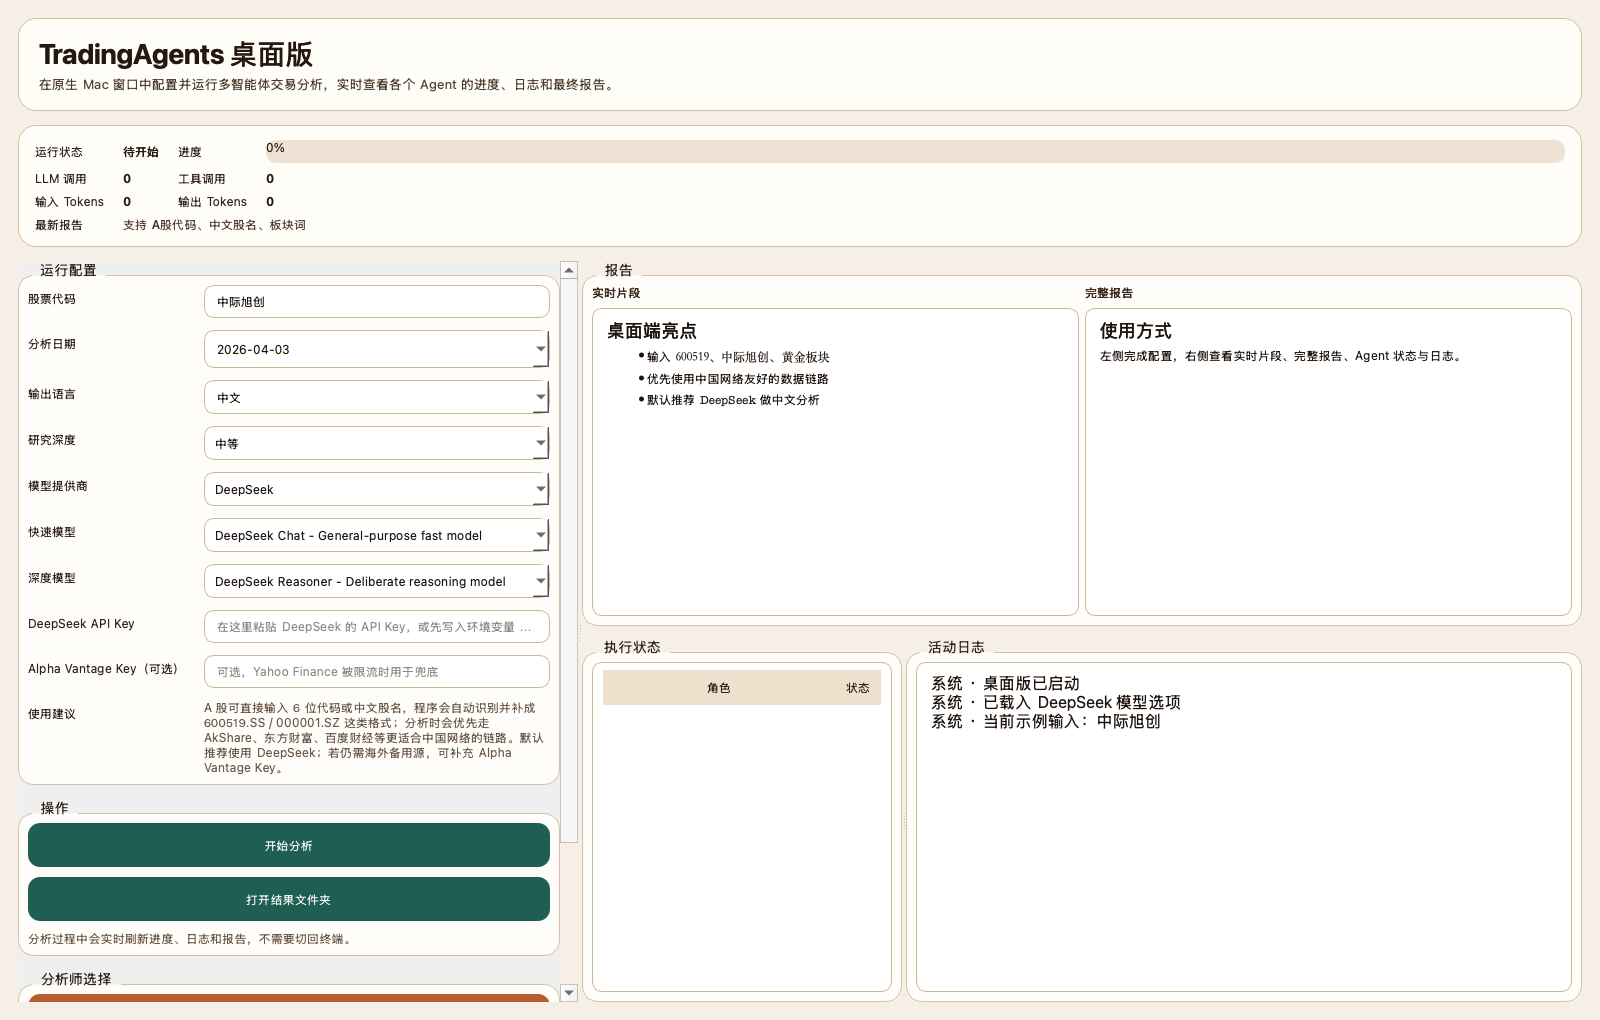
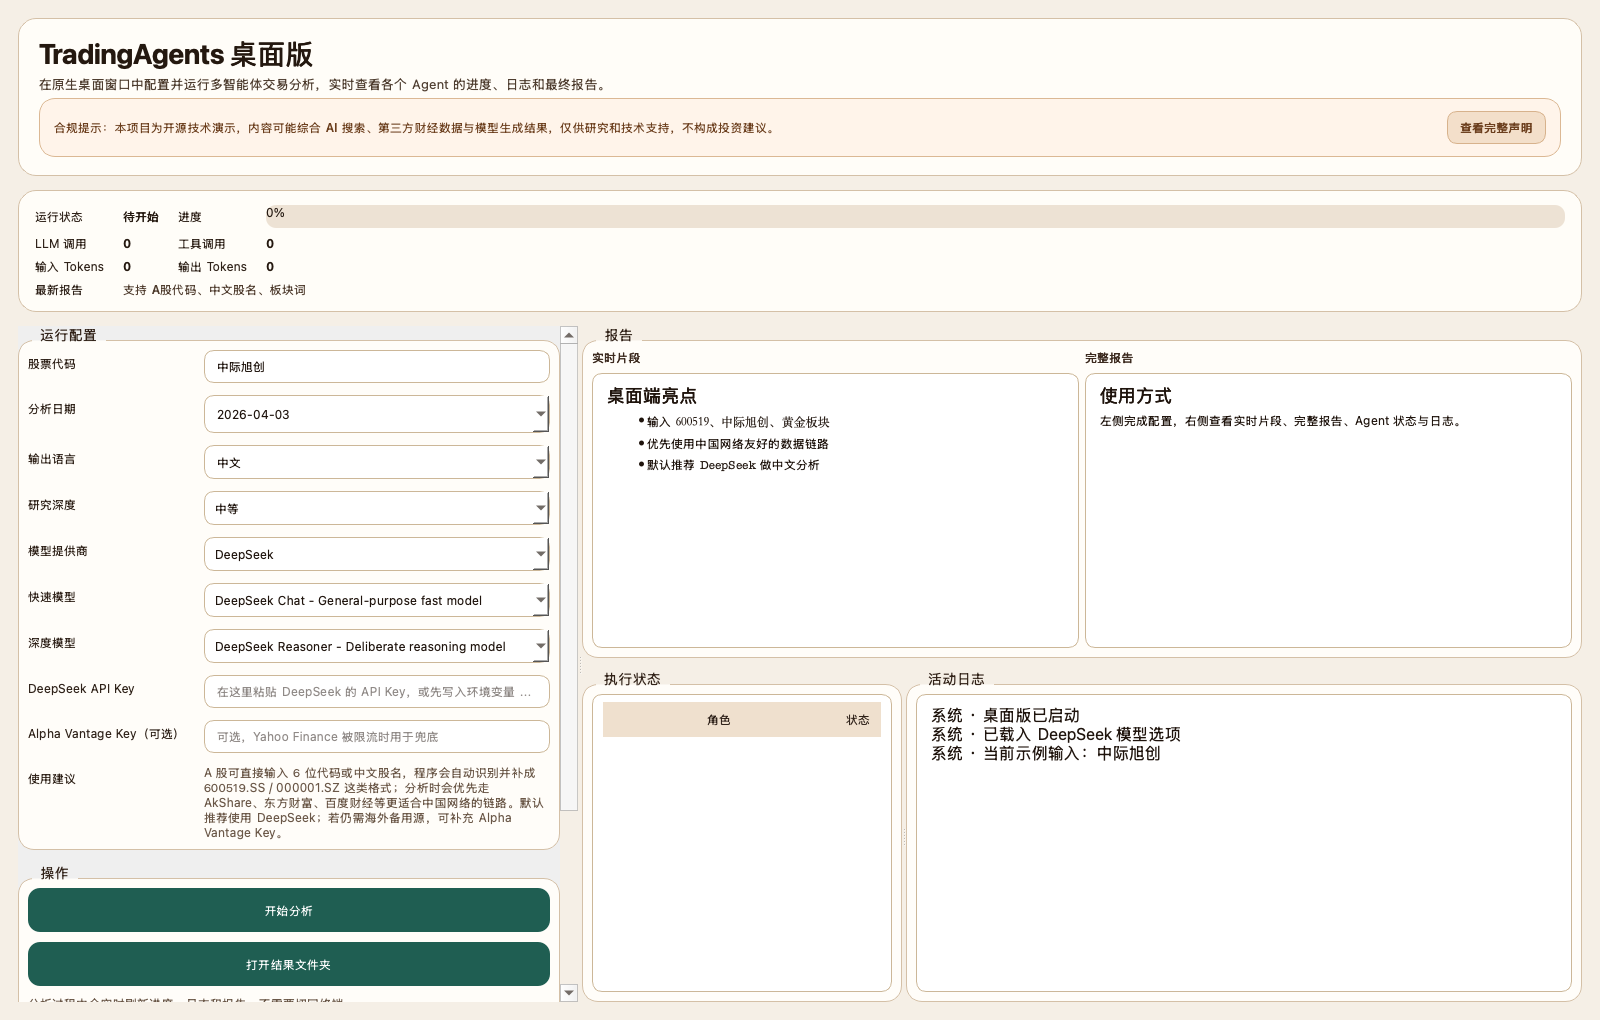
Add compliance notice and disclaimer docs

Changed region(s): [[0.0, 0.0912, 1.0, 1.0], [0.0312, 0.0608, 0.375, 0.0912]]

diff --git a/tradingagents/desktop/app.py b/tradingagents/desktop/app.py
@@ -7,7 +7,7 @@ import traceback
 from dotenv import load_dotenv
 
 try:
-    from PySide6.QtCore import QDate, QObject, QSettings, Qt, QThread, QUrl, Signal
+    from PySide6.QtCore import QDate, QObject, QSettings, Qt, QThread, QTimer, QUrl, Signal
     from PySide6.QtGui import QColor, QDesktopServices, QFontDatabase
     from PySide6.QtWidgets import (
         QApplication,
@@ -141,6 +141,30 @@ QScrollArea {
     border: none;
     background: transparent;
 }
+QFrame#NoticeCard {
+    background: #fff4ea;
+    border: 1px solid #dbb894;
+    border-radius: 16px;
+}
+"""
+
+
+COMPLIANCE_NOTICE_VERSION = "2026-04-03.zh-cn.v1"
+COMPLIANCE_NOTICE_SUMMARY = (
+    "本项目是开源的技术研究/演示工具，仅提供技术支持与辅助分析能力，"
+    "不提供任何形式的投资建议、证券推荐、收益承诺或委托理财服务。"
+)
+COMPLIANCE_NOTICE_HTML = """
+<p><b>请在使用前了解以下说明：</b></p>
+<ul>
+  <li>本项目是开源技术项目，面向研究、学习、工程验证和辅助分析场景，不是持牌证券、投资顾问或资产管理服务。</li>
+  <li>分析内容可能综合第三方财经接口、公开网页、联网搜索结果、AI 搜索和大模型生成输出，存在延迟、缺失、误差、幻觉或过时风险。</li>
+  <li>程序输出仅供技术参考，不构成任何投资建议、证券买卖建议、收益承诺、招揽或保证。</li>
+  <li>使用者应自行核验关键数据，并独立承担交易、投资、税务、法律和运营相关风险与责任。</li>
+  <li>第三方数据源、搜索服务、模型服务和网络链路的可用性、准确性与合规性，由对应提供方负责，本项目不作保证。</li>
+  <li>桌面端会在本机保存你填写的 API Key 配置，请自行做好设备、账号与密钥安全管理。</li>
+  <li>项目按当前仓库许可协议和“按现状”方式提供；如需商业化、面向客户分发或用于投顾场景，请先咨询专业律师或合规顾问。</li>
+</ul>
 """
 
 
@@ -171,10 +195,11 @@ class AnalysisWorker(QObject):
 
 
 class MainWindow(QMainWindow):
-    def __init__(self) -> None:
+    def __init__(self, show_compliance_notice: bool = True) -> None:
         super().__init__()
         load_dotenv()
         self.settings = QSettings("TradingAgents", "Desktop")
+        self.show_compliance_notice = show_compliance_notice
         self._provider_keys: dict[str, str] = {}
         self._active_provider: str | None = None
         self.worker_thread: QThread | None = None
@@ -184,6 +209,8 @@ class MainWindow(QMainWindow):
         self._build_ui()
         self._load_saved_state()
         self._refresh_agent_table({})
+        if self.show_compliance_notice:
+            QTimer.singleShot(0, self._show_compliance_notice_if_needed)
 
     def _build_ui(self) -> None:
         self.setWindowTitle("TradingAgents 桌面版")
@@ -207,12 +234,34 @@ class MainWindow(QMainWindow):
         title = QLabel("TradingAgents 桌面版")
         title.setStyleSheet("font-size: 28px; font-weight: 700; color: #24180f;")
         subtitle = QLabel(
-            "在原生 Mac 窗口中配置并运行多智能体交易分析，实时查看各个 Agent 的进度、日志和最终报告。"
+            "在原生桌面窗口中配置并运行多智能体交易分析，实时查看各个 Agent 的进度、日志和最终报告。"
         )
         subtitle.setWordWrap(True)
         subtitle.setStyleSheet("font-size: 13px; color: #4e3d2f;")
+        notice_card = QFrame()
+        notice_card.setObjectName("NoticeCard")
+        notice_layout = QHBoxLayout(notice_card)
+        notice_layout.setContentsMargins(14, 12, 14, 12)
+        notice_layout.setSpacing(12)
+        notice_label = QLabel(
+            "合规提示：本项目为开源技术演示，内容可能综合 AI 搜索、第三方财经数据与模型生成结果，仅供研究和技术支持，不构成投资建议。"
+        )
+        notice_label.setWordWrap(True)
+        notice_label.setStyleSheet("color: #6c3f1e; font-size: 12px; font-weight: 600;")
+        self.notice_button = QPushButton("查看完整声明")
+        self.notice_button.setCursor(Qt.PointingHandCursor)
+        self.notice_button.setMaximumWidth(132)
+        self.notice_button.setStyleSheet(
+            "QPushButton { background: #f3dfca; color: #6c3f1e; border: 1px solid #d7b28c; "
+            "border-radius: 10px; padding: 8px 12px; font-weight: 700; }"
+            "QPushButton:hover { background: #ecd4bb; }"
+        )
+        self.notice_button.clicked.connect(self._show_compliance_notice)
+        notice_layout.addWidget(notice_label, 1)
+        notice_layout.addWidget(self.notice_button, 0, Qt.AlignTop)
         header_layout.addWidget(title)
         header_layout.addWidget(subtitle)
+        header_layout.addWidget(notice_card)
         root_layout.addWidget(header)
 
         stats_row = QFrame()
@@ -892,6 +941,44 @@ class MainWindow(QMainWindow):
         if self.latest_results_dir:
             QDesktopServices.openUrl(QUrl.fromLocalFile(self.latest_results_dir))
 
+    def _show_compliance_notice(self) -> None:
+        self._show_compliance_dialog(require_ack=False)
+
+    def _show_compliance_notice_if_needed(self) -> None:
+        acknowledged_version = str(
+            self.settings.value("compliance_notice_version", "") or ""
+        )
+        if acknowledged_version == COMPLIANCE_NOTICE_VERSION:
+            return
+        accepted = self._show_compliance_dialog(require_ack=True)
+        if accepted:
+            self.settings.setValue(
+                "compliance_notice_version",
+                COMPLIANCE_NOTICE_VERSION,
+            )
+            self.settings.sync()
+        else:
+            self.close()
+
+    def _show_compliance_dialog(self, require_ack: bool) -> bool:
+        dialog = QMessageBox(self)
+        dialog.setIcon(QMessageBox.Warning)
+        dialog.setWindowTitle("使用声明与风险提示")
+        dialog.setTextFormat(Qt.RichText)
+        dialog.setText(COMPLIANCE_NOTICE_SUMMARY)
+        dialog.setInformativeText(COMPLIANCE_NOTICE_HTML)
+
+        if require_ack:
+            accept_button = dialog.addButton("我已了解并继续", QMessageBox.AcceptRole)
+            exit_button = dialog.addButton("退出应用", QMessageBox.RejectRole)
+            dialog.setDefaultButton(accept_button)
+            dialog.exec()
+            return dialog.clickedButton() == accept_button and dialog.clickedButton() != exit_button
+
+        dialog.addButton("关闭", QMessageBox.AcceptRole)
+        dialog.exec()
+        return True
+
     def closeEvent(self, event) -> None:  # type: ignore[override]
         if self.worker_thread and self.worker_thread.isRunning():
             QMessageBox.warning(
@@ -910,7 +997,7 @@ def main() -> int:
     app = QApplication(sys.argv)
     app.setApplicationName("TradingAgents 桌面版")
     app.setOrganizationName("TradingAgents")
-    window = MainWindow()
+    window = MainWindow(show_compliance_notice=True)
     window.show()
     return app.exec()
 

diff --git a/scripts/generate_marketing_screenshots.py b/scripts/generate_marketing_screenshots.py
@@ -180,7 +180,7 @@ def save_window(window: MainWindow, filename: str) -> Path:
 def main() -> None:
     os.environ.setdefault("QT_QPA_PLATFORM", "offscreen")
     app = QApplication([])
-    window = MainWindow()
+    window = MainWindow(show_compliance_notice=False)
     outputs = [
         render_config_shot(window),
         render_progress_shot(window),

diff --git a/docs/legal/LEGAL_DISCLAIMER_ZH.md b/docs/legal/LEGAL_DISCLAIMER_ZH.md
@@ -1,0 +1,59 @@
+# 合规声明与免责声明
+
+本文档用于说明 `Trading Agents Desktop` 的项目定位、使用边界和风险提示，便于开源使用者、测试者和二次开发者明确理解本项目的性质。
+
+## 1. 项目定位
+
+- 本项目是一个基于 Apache-2.0 协议开源的技术研究、学习和工程演示项目。
+- 本项目主要提供桌面端交互、多智能体分析流程、A 股数据链路适配和模型接入能力。
+- 本项目不是持牌证券服务、投资顾问服务、资产管理服务、基金销售服务，也不面向任何收益承诺场景。
+
+## 2. 数据与内容来源说明
+
+- 项目输出可能综合以下信息来源：
+- 第三方财经数据接口，例如 AkShare、腾讯证券、新浪财经、东方财富、百度财经等。
+- 公开网页、新闻站点、联网搜索结果和 AI 搜索结果。
+- 大语言模型根据提示词、检索结果和上下文生成的摘要、推理、结论或建议性表述。
+- 因为存在第三方接口波动、网页结构变化、搜索结果偏差、模型幻觉和网络限制，项目输出可能出现延迟、缺失、误差、过时、不完整或表述不严谨的情况。
+
+## 3. 非投资建议声明
+
+- 本项目提供的任何文本、信号、结论、评级、倾向、仓位建议、风险判断或交易表述，都仅用于技术展示、学习研究和辅助分析。
+- 本项目不构成任何形式的投资建议、证券买卖建议、个股推荐、收益承诺、募资招揽、代客理财建议或其他受监管金融服务。
+- 使用者不得将本项目输出直接视为下单依据，也不得将本项目宣传为“投顾产品”“荐股工具”“收益保障工具”或其他可能引发误导的金融服务产品。
+
+## 4. 风险承担与用户责任
+
+- 使用者应自行核验关键行情、公告、财报、新闻、估值和政策信息。
+- 使用者基于本项目作出的任何投资、交易、运营、税务、法律或业务决策，均应自行承担风险和责任。
+- 对于高风险场景，请务必结合持牌专业机构、合规顾问、律师、会计师或税务顾问意见独立判断。
+
+## 5. 第三方服务与网络环境
+
+- 本项目依赖的第三方模型服务、搜索服务、财经数据源和网络环境可能受到接口限流、地区网络条件、代理配置、服务条款变化或临时下线影响。
+- 第三方服务的准确性、合法性、可用性、稳定性和持续性，由相应服务提供方负责。
+- 因第三方接口异常、模型波动、网页变更、限流、封禁或网络问题导致的结果错误、功能不可用或数据缺失，本项目不作保证。
+
+## 6. 开源免责与无担保
+
+- 本项目按当前仓库中的开源许可协议和“按现状”原则提供。
+- 在适用法律允许范围内，项目作者、贡献者和分发者不对本项目的适销性、特定用途适用性、持续可用性、结果准确性或安全性作任何明示或默示保证。
+- 对因使用、无法使用、误用、二次分发或依赖本项目结果所导致的直接或间接损失，项目作者和贡献者不承担责任。
+
+## 7. API Key、隐私与本地配置
+
+- 桌面端会将使用者填写的部分 API Key 和配置写入本机系统设置，用于下次启动自动回填。
+- 项目不会主动承诺提供密钥托管、云端加密存储或企业级审计能力。
+- 使用者应自行保护设备安全、系统账户安全和 API Key 安全，避免在共享设备、公共仓库或截图中泄露敏感信息。
+
+## 8. 使用者合规义务
+
+- 使用者应自行确保自己的使用方式符合所在司法辖区法律法规、平台政策、第三方数据源条款和模型服务条款。
+- 如将本项目用于商业化、面向客户分发、内嵌到投资产品、研究产品或投顾工作流中，建议先完成法律审查、数据合规审查和业务合规评估。
+- 如你的使用场景涉及持牌金融活动、投顾、资管、证券研究发布、客户适当性管理或跨境数据处理，请先咨询专业律师和合规顾问。
+
+## 9. 建议对外展示的简版声明
+
+可在仓库首页、应用启动页、下载页或 Release 页面使用以下简版文案：
+
+> 本项目是开源技术研究/演示工具，分析内容可能综合第三方财经数据、联网搜索结果、AI 搜索和大模型生成输出，仅供学习研究与技术支持，不构成任何投资建议、证券推荐或收益承诺。请使用者自行核验关键信息并独立承担相关风险。

diff --git a/README.md b/README.md
@@ -24,6 +24,8 @@
 
 仓库基于上游 [TauricResearch/TradingAgents](https://github.com/TauricResearch/TradingAgents) 二次开发，保留多智能体分析框架，同时把实际可用性重心放在桌面体验和 A 股分析上。
 
+> 合规提示：本项目是开源技术研究/演示工具，分析内容可能综合第三方财经数据、联网搜索结果、AI 搜索和模型生成输出，仅供学习研究与技术支持，不构成任何投资建议、证券推荐或收益承诺。
+
 ## 首页截图
 
 ### 1. 配置与输入体验
@@ -77,6 +79,18 @@
 - 主要看 A 股，希望用 LLM 做辅助研究的人
 - 不想频繁敲命令、希望直接点界面运行的人
 - 想把上游 TradingAgents 当作桌面应用来用，而不是只当研究代码的人
+
+## 合规声明与免责声明
+
+- 本项目是 Apache-2.0 开源技术项目，主要用于研究、学习、工程验证和辅助分析。
+- 分析结果可能综合第三方财经数据、公开网页、联网搜索、AI 搜索和大模型生成内容，存在延迟、缺失、误差、幻觉或过时风险。
+- 本项目仅提供技术支持与辅助分析能力，不提供投资建议、证券推荐、收益承诺、代客理财或其他持牌金融服务。
+- 使用者应自行核验关键数据，并独立承担投资、交易、税务、法律和业务风险。
+- 第三方数据源、模型服务和网络链路的准确性、可用性和合规性，由各自服务提供方负责。
+- 桌面端会在本机保存部分 API Key 与配置，请自行做好设备和密钥安全管理。
+- 如需商业化、面向客户分发，或嵌入受监管业务场景，建议先咨询律师和合规顾问。
+
+完整版本见：[合规声明与免责声明](docs/legal/LEGAL_DISCLAIMER_ZH.md)
 
 ## 环境要求
 
@@ -292,6 +306,7 @@ tradingagents-desktop
 
 - [桌面端打包指南](docs/release/BUILD_DESKTOP.md)
 - [GitHub Release 文案模板](docs/release/GITHUB_RELEASE_COPY_ZH.md)
+- [合规声明与免责声明](docs/legal/LEGAL_DISCLAIMER_ZH.md)
 - [截图规划清单](docs/release/SCREENSHOT_PLAN_ZH.md)
 
 ## 项目结构
@@ -312,8 +327,10 @@ tests/
 ## 说明
 
 - 本项目仅用于研究、学习和辅助分析
-- 不构成任何投资建议
+- 程序输出可能来自第三方财经数据、联网搜索、AI 搜索和模型生成内容
+- 不构成任何投资建议、证券推荐或收益承诺
 - 分析结果依赖模型质量、数据源状态、网络环境和提示词行为
+- 详细风险提示和免责边界见 [docs/legal/LEGAL_DISCLAIMER_ZH.md](docs/legal/LEGAL_DISCLAIMER_ZH.md)
 
 ## 上游致谢
 

diff --git a/docs/release/GITHUB_RELEASE_COPY_ZH.md b/docs/release/GITHUB_RELEASE_COPY_ZH.md
@@ -62,6 +62,12 @@
 - 不构成任何投资建议
 - 分析质量会受到模型、数据源、网络环境和提示词行为影响
 
+## 建议保留的合规声明
+
+建议在 GitHub Release 正文末尾追加以下说明：
+
+> 本项目是开源技术研究/演示工具，分析内容可能综合第三方财经数据、公开网页、联网搜索结果、AI 搜索和大模型生成输出，仅供学习研究与技术支持，不构成任何投资建议、证券推荐、收益承诺或持牌金融服务。第三方数据源、模型服务和网络链路的准确性、实时性与可用性不由本项目保证，请使用者自行核验关键信息并独立承担相关风险。
+
 ## Recommended Attachments
 
 - macOS 打包产物压缩包

diff --git a/docs/release/REPO_HOMEPAGE_COPY_ZH.md b/docs/release/REPO_HOMEPAGE_COPY_ZH.md
@@ -25,6 +25,13 @@
 - 支持 DeepSeek / OpenAI / Claude / Gemini / Ollama
 - 已补齐打包脚本和 GitHub Actions 自动构建
 
+## 首页合规短声明
+
+- 本项目是开源技术研究/演示工具，仅供学习研究与技术支持。
+- 分析内容可能综合第三方财经数据、联网搜索结果、AI 搜索和大模型生成输出。
+- 不构成任何投资建议、证券推荐、收益承诺或持牌金融服务。
+- 请使用者自行核验关键信息并独立承担相关风险。
+
 ## Release 封面文案
 
 ### 版本标题
